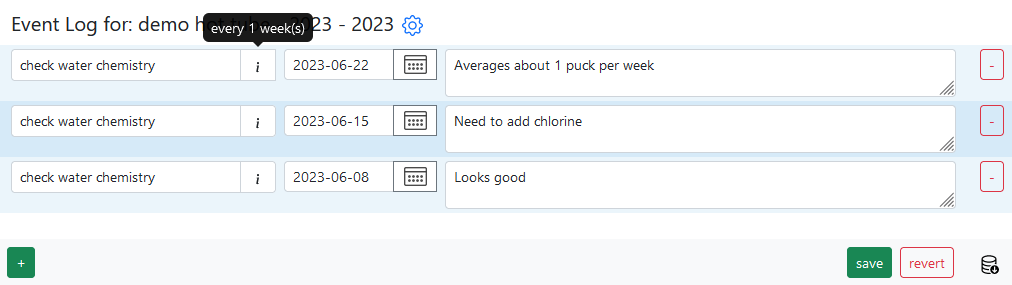
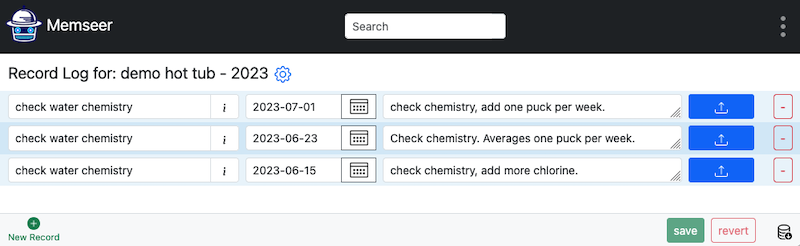
Update: overview guide

diff --git a/docs/guides/overview.md b/docs/guides/overview.md
@@ -6,7 +6,7 @@ parent: Guides
 
 # Overview
 {: .no_toc }
-What is Dashboard, Item, Events & Actions?
+What is Dashboard, Category, Records & Actions?
 {: .fs-6 .fw-300 }
 
 
@@ -23,63 +23,65 @@ What is Dashboard, Item, Events & Actions?
 
 # Dashboard
 
-The Dashboard is the central hub of Memseer, where you can view all your items and schedules in priority order.
+The Dashboard is the central hub of Memseer, where you can view all your categories and schedules in priority order.
 
 ![](../../assets/images/dashboard.png)
 
-Each card on the Dashboard represents an item. Let's take a closer look at the information displayed on a single card:
+Each card on the Dashboard represents a category or a subject. Let's take a closer look at the information displayed on a single card:
 
 ![](../../assets/images/guides/overview/dashboard_card.png)
 
-1. The name of the item and the year it was originated. By clicking item name, you will navigate to all the associated events / event log.
-2. The last time an event was added, including the mileage (if applicable).
-3. The item's settings.
+1. The name of the category and the year it was originated. By clicking the category name, you will navigate to all the associated records / record log.
+2. The last time a record was added, including the mileage (if applicable).
+3. The category's settings.
 4. The upcoming action that needs to be performed.
 5. A "quick complete" button for the action.
 6. An option to expand the card to see all scheduled actions sorted by upcoming priority.
-7. An option to add an event to the item.
+7. An option to add a record to the category.
 
 ---
 
-# Item
+# Category
 
-Item is something you want to keep an eye on and/or take care of. It can be a vehicle, device, personal health, special days, holiday and more. Each item contains [events](#events) - in order to keep a log and [actions](#actions) to be performed if so desired.
+Category is something you want to keep an eye on and/or take care of. It can be a vehicle, device, personal health, special days, holiday and more. Each category contains [records](#records) - in order to keep a log and [actions](#actions) to be performed if so desired.
 
-![](../../assets/images/guides/overview/new_item.png)
+![](../../assets/images/guides/overview/new_category.png)
 
-Item has several fields, which are optional.
+Category has several fields, which are optional.
 
 **[work units](#work-units)** can be enabled if you need to keep track of thing with kilometers, miles or hours of operation, such as vehicles, airplanes or even treadmills - [see example](#work-units)
 
-**origination date** - is a date when the item was manufactured/created or simply started working.
+**origination date** - is a date when the category was manufactured/created/ started working or simply when we want to start keeping track.
 
-**active** - enables/disables calculation of schedule when [actions](#actions) are present.
+**active** - enables/disables calculation of the schedule when [actions](#actions) are present.
 
 **notifications** - enables/disables notifications (via email) of upcoming actions to be completed.
 
 ---
 
-# Events
+# Records
 
-An event is a simple record of what took place. Every event has a name, date, notes and sometimes work units (we will talk about it later). You can create as many events as you want to record different type of event that took place.
+A record is a recollection of something that took place in time. Every record has a name, date, notes and sometimes work units (we will talk about it later). You can create as many records as you want.
 
 ![](../../assets/images/guides/overview/past_present_date.png)
 
-**Note:** Date selection is limited to present or past dates, because this is an event, that took place already.
+**Note:** Date selection is limited to present or past dates, because this is a record of past events.
 
-Event names are given in the present tense, for example: "replace air filter". There is no restriction on how you want to name an event; however we recommend sticking the present tense.
+Record names are given in the present tense, as they are based on an action. For example: "replace air filter". There is no restriction on how you want to name a record; however, we recommend sticking to the present tense.
 
-Event notes can contain anything you want to make note of. You can make a note of weather condition, part number, reasons for making certain decisions, the latest stock price and so on. I make extensive use of it when my kid gets sick. I record my observations in case I need to see a doctor at a later point, so I can provide as accurate information as possible.
+Record notes can contain anything you want to make note of. You can make a note of weather condition, part number, invoice, reasons for making certain decisions, the latest stock price and so on. I make extensive use of it when my kid gets sick. I record my observations in case I need to see a doctor at a later point, so I can provide as accurate information as possible.
 
 ![](../../assets/images/guides/overview/my_baby.png)
 
 ## Work units
 
-Work units is an optional field for an event that appears whenever the item has work units enabled. Work units field comes with three options: kilometers, miles or hours. Here is an example:
+Work units is an optional field for the record that appears whenever the category has work units enabled. Work units field comes with three options: kilometers, miles or hours. Here is an example:
+
+![](../../assets/images/guides/overview/category_select_work_units.png)
 
 ![](../../assets/images/guides/overview/work_units.png)
 
-Work units field comes handy when you are dealing with machinery that needs maintenance based on mileage rather than time passage. For example, a vehicle needs spark plugs replaced after certain amount of miles.
+The Work Units field is particularly useful when maintaining machinery that requires service based on usage metrics or based on mileage or kilometers rather than time passage. For example, a vehicle needs spark plugs replaced after a certain number of miles.
 
 ![](../../assets/images/guides/overview/example_sparkplugs.png)
 
@@ -91,11 +93,11 @@ An action is a record that indicates conditions when something should be done. E
 
 ![](../../assets/images/guides/overview/example_actions.png)
 
-In the example we can see various actions that should be performed at certain conditions, based on time and/or kilometers. How does an action determines when the condition is met? The action looks into [events](#events), finds the same-named event, and calculates date when the action should take place.
+In the example we can see various actions that should be performed at certain conditions, based on time and/or kilometers. How does an action determine when the condition is met? The action looks into [records](#records), finds the same-named record, and calculates date when the action should take place.
 
 ![](../../assets/images/guides/overview/example_vehicle.png)
 
-Effectively actions are like rules or specifications that should be applied to an [item](#item).  
+Effectively actions are like rules or specifications that should be applied to a [category](#category).
 
 ## Action types:
 
@@ -119,7 +121,7 @@ These actions with specific conditions apply during certain periods, allowing yo
 
 `Antiparasitic medication every 3 months between mar and nov`
 
-![](../../assets/images/guides/overview/antiparasitic_medication_every_3_months_between_mar_and_nov.jpg)
+![](../../assets/images/guides/overview/antiparasitic_medication_every_3_months_between_mar_and_nov.png)
 
 This example illustrates [cat care](../examples/my_cat.md), where the cat needs to take medication every 3 months during the outdoor season.
 
@@ -133,35 +135,41 @@ These actions allow for a tight schedule and precise tracking. For example, the 
 
 `Water bill every 3 months on 15th`
 
-![](../../assets/images/guides/overview/water_bill_every_3_months_on_15th.jpg)
+![](../../assets/images/guides/overview/water_bill_every_3_months_on_15th.png)
 
 Or property taxes might be due every year on February 20th:
 
 `Property tax every 1 year on feb 20th`
 
-![](../../assets/images/guides/overview/property_tax_every_1_year_on_feb_20th.jpg)
+Create the record, click on "+ New Record".
+
+![](../../assets/images/guides/overview/property_tax_add_action.png)
+
+Create the Action for the record.
+
+![](../../assets/images/guides/overview/property_tax_every_1_year_on_feb_20th.png)
 
 
 ## Creating action(s)
 
-There are two ways to create actions: directly, by navigating to "Item & Actions" and adding new actions, or by creating actions from existing events. 
+There are two ways to create actions: directly, by navigating to "Category & Actions" and adding new actions, or by creating actions from existing records.
 
-The first method involves navigating to "Item & Actions" and adding new actions. Here's an image that illustrates this process:
+The first method involves navigating to "Edit Category & Actions" select and click on “New action”. Here's an image that illustrates this process:
 
-![](../../assets/images/guides/overview/create_action_edit_item_and_actions.png)
+![](../../assets/images/guides/overview/create_action_edit_category_and_actions.png)
 
-The second method is useful when you already have events and want to create actions based on them. To do this, navigate to an event log and identify the event that requires an action. For example, let's say we have an event called "check water chemistry," which occurs every week based on the dates between events.
+The second method is useful when you already have records and want to create actions based on them. To do this, navigate to the record log and identify the record that requires an action. For example, let's say we have a record called "check water chemistry," which occurs every week based on the dates between records.
 
 ![](../../assets/images/guides/overview/example_hot_tub_check_water.png)
 
-To create an action from this event, click on the "+" plus sign. You will be redirected to the "Item & Actions" page, where the newly created action will be highlighted:
+To create an action from this record, click on the "+ New Action" sign. You will be redirected to the "Category & Actions" page, where the newly created action will be highlighted:
 
-![](../../assets/images/guides/overview/newly_created_action.png)
+![](../../assets/images/guides/overview/newly_created_action.jpg)
 
 Next, you need to set the unit to "1" and select "weeks." Leave everything else as default and click "Done":
 
 ![](../../assets/images/guides/overview/newly_created_action_complete.png)
 
-Congratulations! You have successfully created an action. You can view it on the dashboard and also find it under the 'i' icon in the top-right corner of the event name:
+Congratulations! You have successfully created an action. You can view it on the dashboard and also find it under the 'i' icon in the top-right corner of the record name:
 
 ![](../../assets/images/guides/overview/example_hot_tub_check_water_complete.png)
